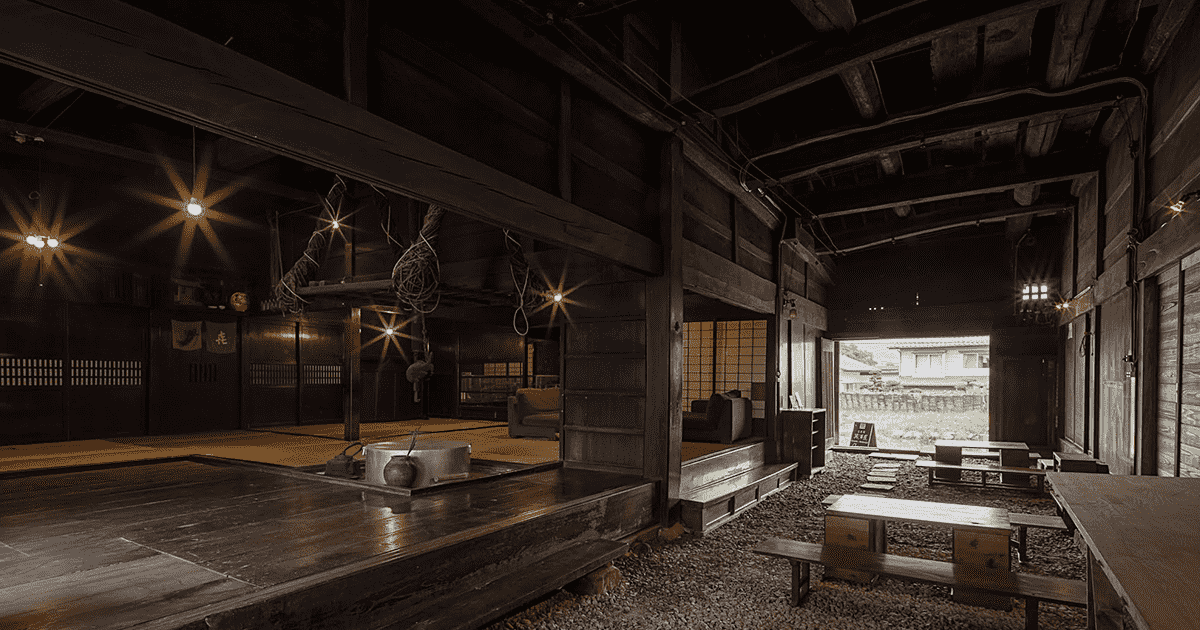
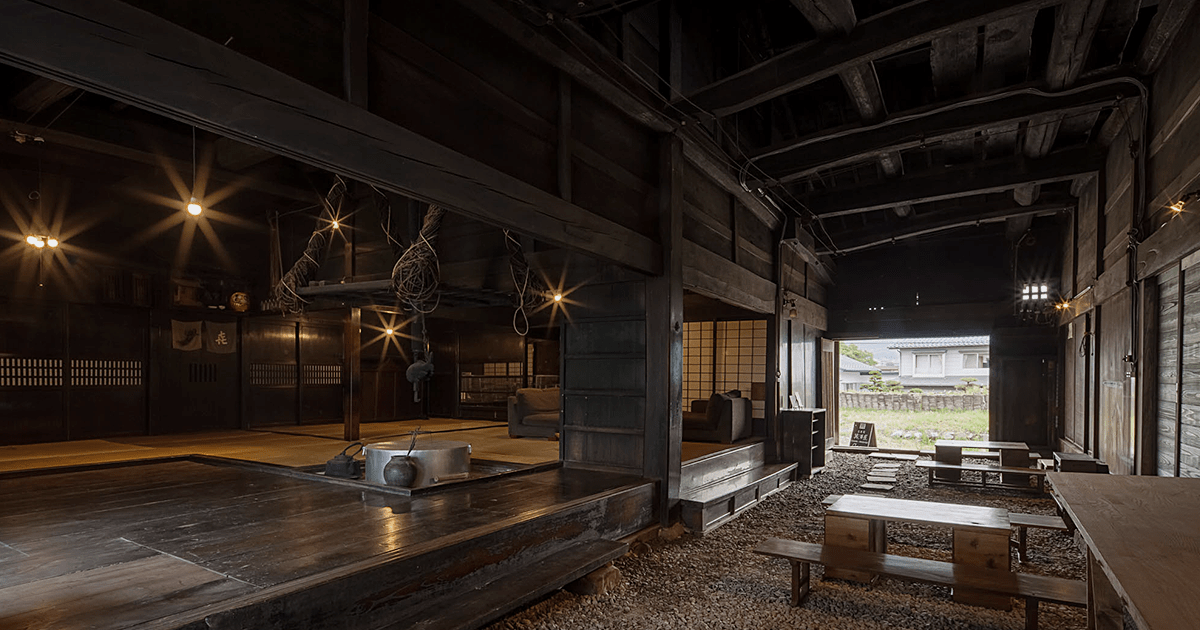
Update image

diff --git a/gulpfile.js b/gulpfile.js
@@ -60,10 +60,10 @@ function imageTask() {
     .pipe(
       imagemin([
         pngquant({
-          quality: [0.3, 0.5], // [minimum, maximum]
+          quality: [0.9, 1.0], // [minimum, maximum]
         }),
         mozjpeg({
-          quality: 40,
+          quality: 100,
         }),
       ])
     )
